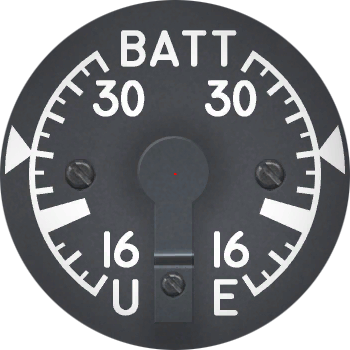
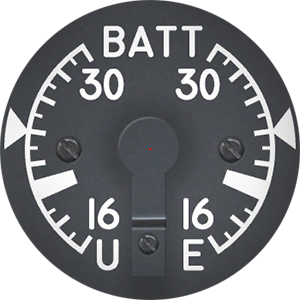
More gauges created
Battery, Brake Pressure, Cabin Pressure, Hydraulic Pressure & LOx
addedd.  VVI calibration fixed.  UFC tweaked.

diff --git a/Helios/Gauges/FA-18C/Battery/Battery.cs b/Helios/Gauges/FA-18C/Battery/Battery.cs
@@ -1,0 +1,67 @@
+//  Copyright 2014 Craig Courtney
+//    
+//  Helios is free software: you can redistribute it and/or modify
+//  it under the terms of the GNU General Public License as published by
+//  the Free Software Foundation, either version 3 of the License, or
+//  (at your option) any later version.
+//
+//  Helios is distributed in the hope that it will be useful,
+//  but WITHOUT ANY WARRANTY; without even the implied warranty of
+//  MERCHANTABILITY or FITNESS FOR A PARTICULAR PURPOSE.  See the
+//  GNU General Public License for more details.
+//
+//  You should have received a copy of the GNU General Public License
+//  along with this program.  If not, see <http://www.gnu.org/licenses/>.
+
+namespace GadrocsWorkshop.Helios.Gauges.FA18C
+{
+    using GadrocsWorkshop.Helios.ComponentModel;
+    using System;
+    using System.Windows;
+
+    [HeliosControl("Helios.FA18C.Battery", "Battery", "F/A-18C Gauges", typeof(GaugeRenderer))]
+    public class Battery : BaseGauge
+    {
+        private HeliosValue _voltageU;
+        private GaugeNeedle _needleU;
+        private HeliosValue _voltageE;
+        private GaugeNeedle _needleE;
+        private CalibrationPointCollectionDouble _calibrationPointsU;
+        private CalibrationPointCollectionDouble _calibrationPointsE;
+
+        public Battery()
+            : base("voltage", new Size(300, 300))
+        {
+            Components.Add(new GaugeImage("{Helios}/Gauges/FA-18C/Battery/Battery_Faceplate.png", new Rect(0d, 0d, 300d, 300d)));
+            _needleU = new GaugeNeedle("{Helios}/Gauges/AV-8B/Common/needle_a.xaml", new Point(150d, 150d), new Size(36, 154), new Point(18, 136), -150d);
+            _needleE = new GaugeNeedle("{Helios}/Gauges/AV-8B/Common/needle_a.xaml", new Point(150d, 150d), new Size(36, 154), new Point(18, 136), 150d);
+            Components.Add(_needleU);
+            Components.Add(_needleE);
+            Components.Add(new GaugeImage("{Helios}/Gauges/FA-18C/Battery/Battery_Needle_Cover.png", new Rect(118d, 115d, 62d, 162d)));
+
+            //Components.Add(new GaugeImage("{Helios}/Gauges/A-10/Common/gauge_bezel.png", new Rect(0d, 0d, 364d, 376d)));
+
+            _voltageU = new HeliosValue(this, new BindingValue(0d), "", "Battery Voltage U", "This is the voltage of the battery in volts", "(15 to 30)", BindingValueUnits.Volts);
+            _voltageU.Execute += new HeliosActionHandler(voltageU_Execute);
+            Actions.Add(_voltageU);
+            _voltageE = new HeliosValue(this, new BindingValue(0d), "", "Battery Voltage E", "This is the voltage of the battery in volts", "(15 to 30)", BindingValueUnits.Volts);
+            _voltageE.Execute += new HeliosActionHandler(voltageE_Execute);
+            Actions.Add(_voltageE);
+
+            _calibrationPointsU = new CalibrationPointCollectionDouble(16d, -150d, 30d, -30d);
+            _calibrationPointsU.Add(new CalibrationPointDouble(0d, -150d));  // used to set an end stop at 15v
+            _calibrationPointsE = new CalibrationPointCollectionDouble(16d, 150d, 30d, 30d);
+            _calibrationPointsE.Add(new CalibrationPointDouble(0d, 150d));  // used to set an end stop at 15v
+
+        }
+
+        void voltageU_Execute(object action, HeliosActionEventArgs e)
+        {
+            _needleU.Rotation = _calibrationPointsU.Interpolate(e.Value.DoubleValue);
+        }
+        void voltageE_Execute(object action, HeliosActionEventArgs e)
+        {
+            _needleE.Rotation = _calibrationPointsE.Interpolate(e.Value.DoubleValue);
+        }
+    }
+}

diff --git a/Helios/Gauges/FA-18C/LOx/LOx.cs b/Helios/Gauges/FA-18C/LOx/LOx.cs
@@ -1,0 +1,68 @@
+//  Copyright 2014 Craig Courtney
+//    
+//  Helios is free software: you can redistribute it and/or modify
+//  it under the terms of the GNU General Public License as published by
+//  the Free Software Foundation, either version 3 of the License, or
+//  (at your option) any later version.
+//
+//  Helios is distributed in the hope that it will be useful,
+//  but WITHOUT ANY WARRANTY; without even the implied warranty of
+//  MERCHANTABILITY or FITNESS FOR A PARTICULAR PURPOSE.  See the
+//  GNU General Public License for more details.
+//
+//  You should have received a copy of the GNU General Public License
+//  along with this program.  If not, see <http://www.gnu.org/licenses/>.
+
+namespace GadrocsWorkshop.Helios.Gauges.FA18C.Instruments
+{
+    using GadrocsWorkshop.Helios.ComponentModel;
+    using System;
+    using System.Windows;
+    using System.Windows.Media;
+
+    [HeliosControl("Helios.FA18C.Instruments.O2Gauge", "Liquid Oxygen", "F/A-18C Gauges", typeof(GaugeRenderer))]
+    public class O2Gauge : BaseGauge
+    {
+        private HeliosValue _LOx;
+        private HeliosValue _airPressure;
+        private GaugeNeedle _needle;
+        private CalibrationPointCollectionDouble _needleCalibration;
+        private GaugeDrumCounter _airPressureDrum;
+
+        public O2Gauge()
+            : base("O2 Gauge", new Size(300, 300))
+        {
+ 
+
+            _airPressureDrum = new GaugeDrumCounter("{Helios}/Gauges/FA-18C/Common/drum_tape.xaml", new Point(125d, 258d), "###%", new Size(10d, 15d), new Size(12d, 28d));
+            _airPressureDrum.Value = 2992d;
+            _airPressureDrum.Clip = new RectangleGeometry(new Rect(125d, 258d,48d, 28d));
+            Components.Add(_airPressureDrum);
+
+            Components.Add(new GaugeImage("{Helios}/Gauges/FA-18C/LOx/LOx_Faceplate.png", new Rect(0d, 0d, 300d, 300d)));
+
+            _needleCalibration = new CalibrationPointCollectionDouble(0d, -90d, 1d, 90d);
+            _needle = new GaugeNeedle("{Helios}/Gauges/AV-8B/Common/needle_a.xaml", new Point(150d, 150d), new Size(30, 128), new Point(15, 113), -90d);
+            Components.Add(_needle);
+  
+            _airPressure = new HeliosValue(this, new BindingValue(0d), "", "air pressure", "Current air pressure calibaration setting for the altimeter.", "", BindingValueUnits.InchesOfMercury);
+            _airPressure.SetValue(new BindingValue(29.92), true);
+            _airPressure.Execute += new HeliosActionHandler(AirPressure_Execute);
+            Actions.Add(_airPressure);
+
+            _LOx = new HeliosValue(this, new BindingValue(0d), "", "Oxygen Flow", "Current Liquid Oxygen in litres.", "", BindingValueUnits.Numeric);
+            _LOx.Execute += new HeliosActionHandler(LOx_Execute);
+            Actions.Add(_LOx);
+        }
+
+        void LOx_Execute(object action, HeliosActionEventArgs e)
+        {
+            _needle.Rotation = _needleCalibration.Interpolate(e.Value.DoubleValue);
+        }
+
+        void AirPressure_Execute(object action, HeliosActionEventArgs e)
+        {
+            _airPressureDrum.Value = e.Value.DoubleValue * 100d;
+        }
+    }
+}

diff --git a/Helios/Gauges/FA-18C/BrakePressure/Brake_Pressure.cs b/Helios/Gauges/FA-18C/BrakePressure/Brake_Pressure.cs
@@ -1,0 +1,50 @@
+//  Copyright 2014 Craig Courtney
+//    
+//  Helios is free software: you can redistribute it and/or modify
+//  it under the terms of the GNU General Public License as published by
+//  the Free Software Foundation, either version 3 of the License, or
+//  (at your option) any later version.
+//
+//  Helios is distributed in the hope that it will be useful,
+//  but WITHOUT ANY WARRANTY; without even the implied warranty of
+//  MERCHANTABILITY or FITNESS FOR A PARTICULAR PURPOSE.  See the
+//  GNU General Public License for more details.
+//
+//  You should have received a copy of the GNU General Public License
+//  along with this program.  If not, see <http://www.gnu.org/licenses/>.
+
+namespace GadrocsWorkshop.Helios.Gauges.FA18C
+{
+    using GadrocsWorkshop.Helios.ComponentModel;
+    using System;
+    using System.Windows;
+    using System.Windows.Media;
+
+    [HeliosControl("Helios.FA18C.Instruments.BrakePressure", "Brake Pressure", "F/A-18C Gauges", typeof(GaugeRenderer))]
+    public class BrakePressure : BaseGauge
+    {
+        private HeliosValue _brakePressure;
+        private GaugeNeedle _needle;
+        private CalibrationPointCollectionDouble _needleCalibration;
+
+        public BrakePressure()
+            : base("Brake Pressue Gauge", new Size(280, 280))
+        {
+            Components.Add(new GaugeImage("{Helios}/Gauges/FA-18C/BrakePressure/Brake_Pressure_Faceplate.png", new Rect(0d, 0d, 280d, 280d)));
+
+            _needleCalibration = new CalibrationPointCollectionDouble(0d, -30d, 1d, 30d);
+            _needle = new GaugeNeedle("{Helios}/Gauges/AV-8B/Common/needle_a.xaml", new Point(140d, 220d), new Size(36, 154), new Point(18, 136), -45d);
+            Components.Add(_needle);
+            Components.Add(new GaugeImage("{Helios}/Gauges/FA-18C/BrakePressure/Brake_Pressure_Cover.png", new Rect(29d, 182d, 226d, 98d)));
+
+            _brakePressure = new HeliosValue(this, new BindingValue(0d), "", "Brake Pressue", "Brake Pressure in PSI.", "", BindingValueUnits.PoundsPerSquareInch);
+            _brakePressure.Execute += new HeliosActionHandler(brakePressure_Execute);
+            Actions.Add(_brakePressure);
+        }
+
+        void brakePressure_Execute(object action, HeliosActionEventArgs e)
+        {
+            _needle.Rotation = _needleCalibration.Interpolate(e.Value.DoubleValue);
+        }
+    }
+}

diff --git a/Helios/Gauges/FA-18C/HydraulicPressure/Hydraulic.cs b/Helios/Gauges/FA-18C/HydraulicPressure/Hydraulic.cs
@@ -1,0 +1,47 @@
+//  Copyright 2014 Craig Courtney
+//    
+//  Helios is free software: you can redistribute it and/or modify
+//  it under the terms of the GNU General Public License as published by
+//  the Free Software Foundation, either version 3 of the License, or
+//  (at your option) any later version.
+//
+//  Helios is distributed in the hope that it will be useful,
+//  but WITHOUT ANY WARRANTY; without even the implied warranty of
+//  MERCHANTABILITY or FITNESS FOR A PARTICULAR PURPOSE.  See the
+//  GNU General Public License for more details.
+//
+//  You should have received a copy of the GNU General Public License
+//  along with this program.  If not, see <http://www.gnu.org/licenses/>.
+
+namespace GadrocsWorkshop.Helios.Gauges.FA18C.Hydraulic
+{
+    using GadrocsWorkshop.Helios.ComponentModel;
+    using System;
+    using System.Windows;
+
+    [HeliosControl("Helios.FA18C.Hydraulic", "Hydraulic Pressure", "F/A-18C Gauges", typeof(GaugeRenderer))]
+    public class Hydraulic : BaseGauge
+    {
+        private HeliosValue _pressure;
+        private GaugeNeedle _needle;
+        private CalibrationPointCollectionDouble _needleCalibration;
+
+        public Hydraulic()
+            : base("Hydraulic Pressure", new Size(300, 300))
+        {
+            Components.Add(new GaugeImage("{Helios}/Gauges/FA-18C/HydraulicPressure/Hyd_Pressure_Faceplate.png", new Rect(0d, 0d, 300d, 300d)));
+
+            _needleCalibration = new CalibrationPointCollectionDouble(0d, 80d, 5000d, 40d);
+            _needle = new GaugeNeedle("{Helios}/Gauges/AV-8B/Common/needle_a.xaml", new Point(150d, 150d), new Size(30, 128), new Point(15, 113), 80d);
+            Components.Add(_needle);
+            _pressure = new HeliosValue(this, new BindingValue(0d), "", "pressure", "Current pressure for the hydraulic system.", "", BindingValueUnits.PoundsPerSquareInch);
+            _pressure.Execute += new HeliosActionHandler(Pressure_Execute);
+            Actions.Add(_pressure);
+        }
+
+        void Pressure_Execute(object action, HeliosActionEventArgs e)
+        {
+            _needle.Rotation = _needleCalibration.Interpolate(e.Value.DoubleValue);
+        }
+    }
+}

diff --git a/Helios/Gauges/FA-18C/IAS/IAS.cs b/Helios/Gauges/FA-18C/IAS/IAS.cs
@@ -20,7 +20,7 @@ namespace GadrocsWorkshop.Helios.Gauges.FA18C
     using System.Windows;
     using System.Windows.Media;
 
-    [HeliosControl("Helios.FA18C.IAS", "IAS", "F/A-18C Gauges", typeof(GaugeRenderer))]
+    [HeliosControl("Helios.FA18C.IAS", "Indicated Air Speed", "F/A-18C Gauges", typeof(GaugeRenderer))]
     public class IAS : BaseGauge
     {
         private HeliosValue _indicatedAirSpeed;
@@ -33,16 +33,6 @@ namespace GadrocsWorkshop.Helios.Gauges.FA18C
 
             Components.Add(new GaugeImage("{Helios}/Gauges/FA-18C/IAS/IAS.png", new Rect(0d, 0d, 300, 300)));
 
-            //_needleCalibration = new CalibrationPointCollectionDouble(0d, 0d, 850d, 346d);
-            //_needleCalibration.Add(new CalibrationPointDouble(100d, 50d));
-            //_needleCalibration.Add(new CalibrationPointDouble(150d, 118d));
-            //_needleCalibration.Add(new CalibrationPointDouble(200d, 202d));
-            //_needleCalibration.Add(new CalibrationPointDouble(300d, 234d));
-            //_needleCalibration.Add(new CalibrationPointDouble(400d, 260d));
-            //_needleCalibration.Add(new CalibrationPointDouble(500d, 282d));
-            //_needleCalibration.Add(new CalibrationPointDouble(600d, 300d));
-            //_needleCalibration.Add(new CalibrationPointDouble(700d, 320d));
-            //_needleCalibration.Add(new CalibrationPointDouble(800d, 336d));
             _needleCalibration = new CalibrationPointCollectionDouble(0d, 0d, 360d, 346d);
             _needle = new GaugeNeedle("{Helios}/Gauges/AV-8B/Common/needle_a.xaml", new Point(150d, 150d), new Size(30, 128), new Point(15, 113), 0d);
             Components.Add(_needle);

diff --git a/Helios/Gauges/FA-18C/CabinPressure/CabinPressure.cs b/Helios/Gauges/FA-18C/CabinPressure/CabinPressure.cs
@@ -1,0 +1,34 @@
+//  Copyright 2014 Craig Courtney
+//    
+//  Helios is free software: you can redistribute it and/or modify
+//  it under the terms of the GNU General Public License as published by
+//  the Free Software Foundation, either version 3 of the License, or
+//  (at your option) any later version.
+//
+//  Helios is distributed in the hope that it will be useful,
+//  but WITHOUT ANY WARRANTY; without even the implied warranty of
+//  MERCHANTABILITY or FITNESS FOR A PARTICULAR PURPOSE.  See the
+//  GNU General Public License for more details.
+//
+//  You should have received a copy of the GNU General Public License
+//  along with this program.  If not, see <http://www.gnu.org/licenses/>.
+
+namespace GadrocsWorkshop.Helios.Gauges.FA18C
+{ 
+    using GadrocsWorkshop.Helios.ComponentModel;
+    using GadrocsWorkshop.Helios.Gauges.A_10.CabinPressure;
+    using System;
+    using System.Windows;
+
+    [HeliosControl("Helios.FA18C.cabinPressure", "Cabin Pressure", "F/A-18C Gauges", typeof(GaugeRenderer))]
+    public class cabinPressure : CabinPressure
+    {
+        public cabinPressure()
+            : base()
+        {
+            Components.RemoveAt(Components.Count - 1);  // remove the bezel
+            Components.Insert(1, new GaugeImage("{Helios}/Gauges/FA-18C/CabinPressure/Cabin_Pressure_Faceplate.png", new Rect(32d, 38d, 300, 300)));  // add in a new faceplate
+            Components.RemoveAt(0);  // remove the original faceplate
+        }
+    }
+}

diff --git a/Helios/Gauges/FA-18C/VVI/VVI.cs b/Helios/Gauges/FA-18C/VVI/VVI.cs
@@ -39,15 +39,7 @@ namespace GadrocsWorkshop.Helios.Gauges.FA18C
             Actions.Add(_verticalVelocity);
 
             _calibrationPoints = new CalibrationPointCollectionDouble(-6000d, -169d, 6000d, 169d);
-            _calibrationPoints.Add(new CalibrationPointDouble(-4000d, -141d));
-            _calibrationPoints.Add(new CalibrationPointDouble(-2000d, -103d));
-            _calibrationPoints.Add(new CalibrationPointDouble(-1000d, -68d));
-            _calibrationPoints.Add(new CalibrationPointDouble(-500d, -37d));
             _calibrationPoints.Add(new CalibrationPointDouble(0d, 0d));
-            _calibrationPoints.Add(new CalibrationPointDouble(500d, 37d));
-            _calibrationPoints.Add(new CalibrationPointDouble(1000d, 68d));
-            _calibrationPoints.Add(new CalibrationPointDouble(2000d, 103d));
-            _calibrationPoints.Add(new CalibrationPointDouble(4000d, 141d));
         }
         void VerticalVelocity_Execute(object action, HeliosActionEventArgs e)
         {

diff --git a/Helios/Gauges/FA-18C/UFC/UFC.cs b/Helios/Gauges/FA-18C/UFC/UFC.cs
@@ -66,9 +66,9 @@ namespace GadrocsWorkshop.Helios.Gauges.FA18C
             AddPot("Radio Volume 1", new Point(20, 193), new Size(48, 48));
             AddPot("Radio Volume 2", new Point(481, 193), new Size(48, 48));
             AddEncoder("Radio 1", new Point(17, 359), new Size(75, 75));
-            AddButtonIP("Radio 1 Pull", 40, 382, new Size(28, 28),false);
+            AddButtonIP("Radio 1 Pull", 41, 383, new Size(28, 28),false);
             AddEncoder("Radio 2", new Point(462, 359), new Size(75, 75));
-            AddButtonIP("Radio 2 Pull", 485, 382, new Size(28, 28),false);
+            AddButtonIP("Radio 2 Pull", 485, 383, new Size(28, 28),false);
         }
 
         public override string BezelImage

diff --git a/Helios/Interfaces/DCS/FA18C/Functions/Altimeter.cs b/Helios/Interfaces/DCS/FA18C/Functions/Altimeter.cs
@@ -63,9 +63,10 @@ namespace GadrocsWorkshop.Helios.Interfaces.DCS.FA18C.Functions
                     double tens = ClampedParse(parts[0], 10d);
                     double ones = ClampedParse(parts[1], 1d);
                     double tenths = ClampedParse(parts[2], .1d);
- 
+                    double hundredths = ClampedParse(parts[3], .1d);
 
-                    double pressure = tens + ones + tenths ;
+
+                    double pressure = tens + ones + tenths+ hundredths;
                     _pressure.SetValue(new BindingValue(pressure), false);
                     break;
             }
